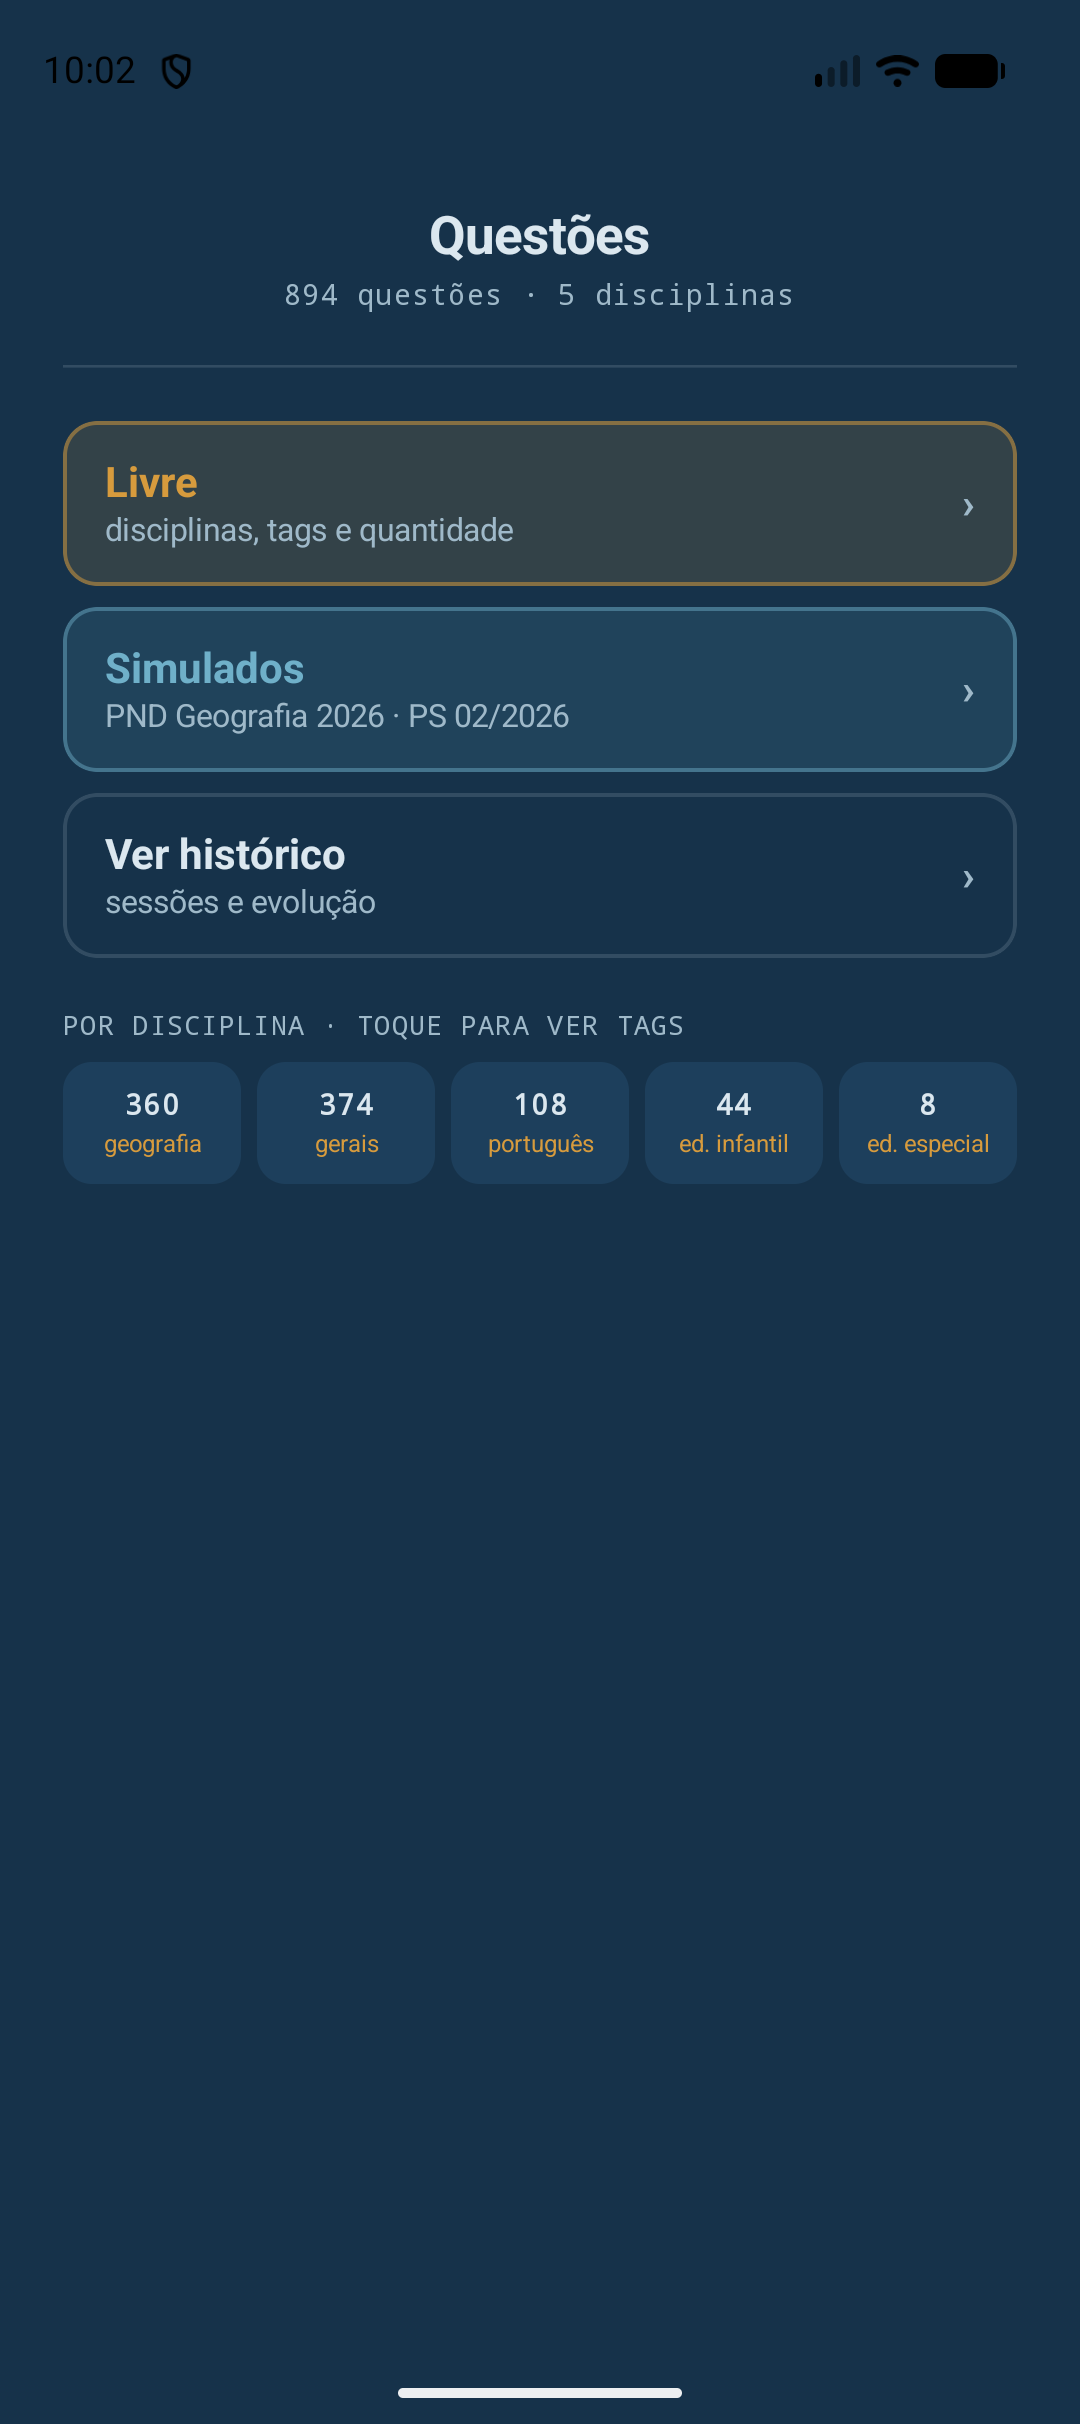
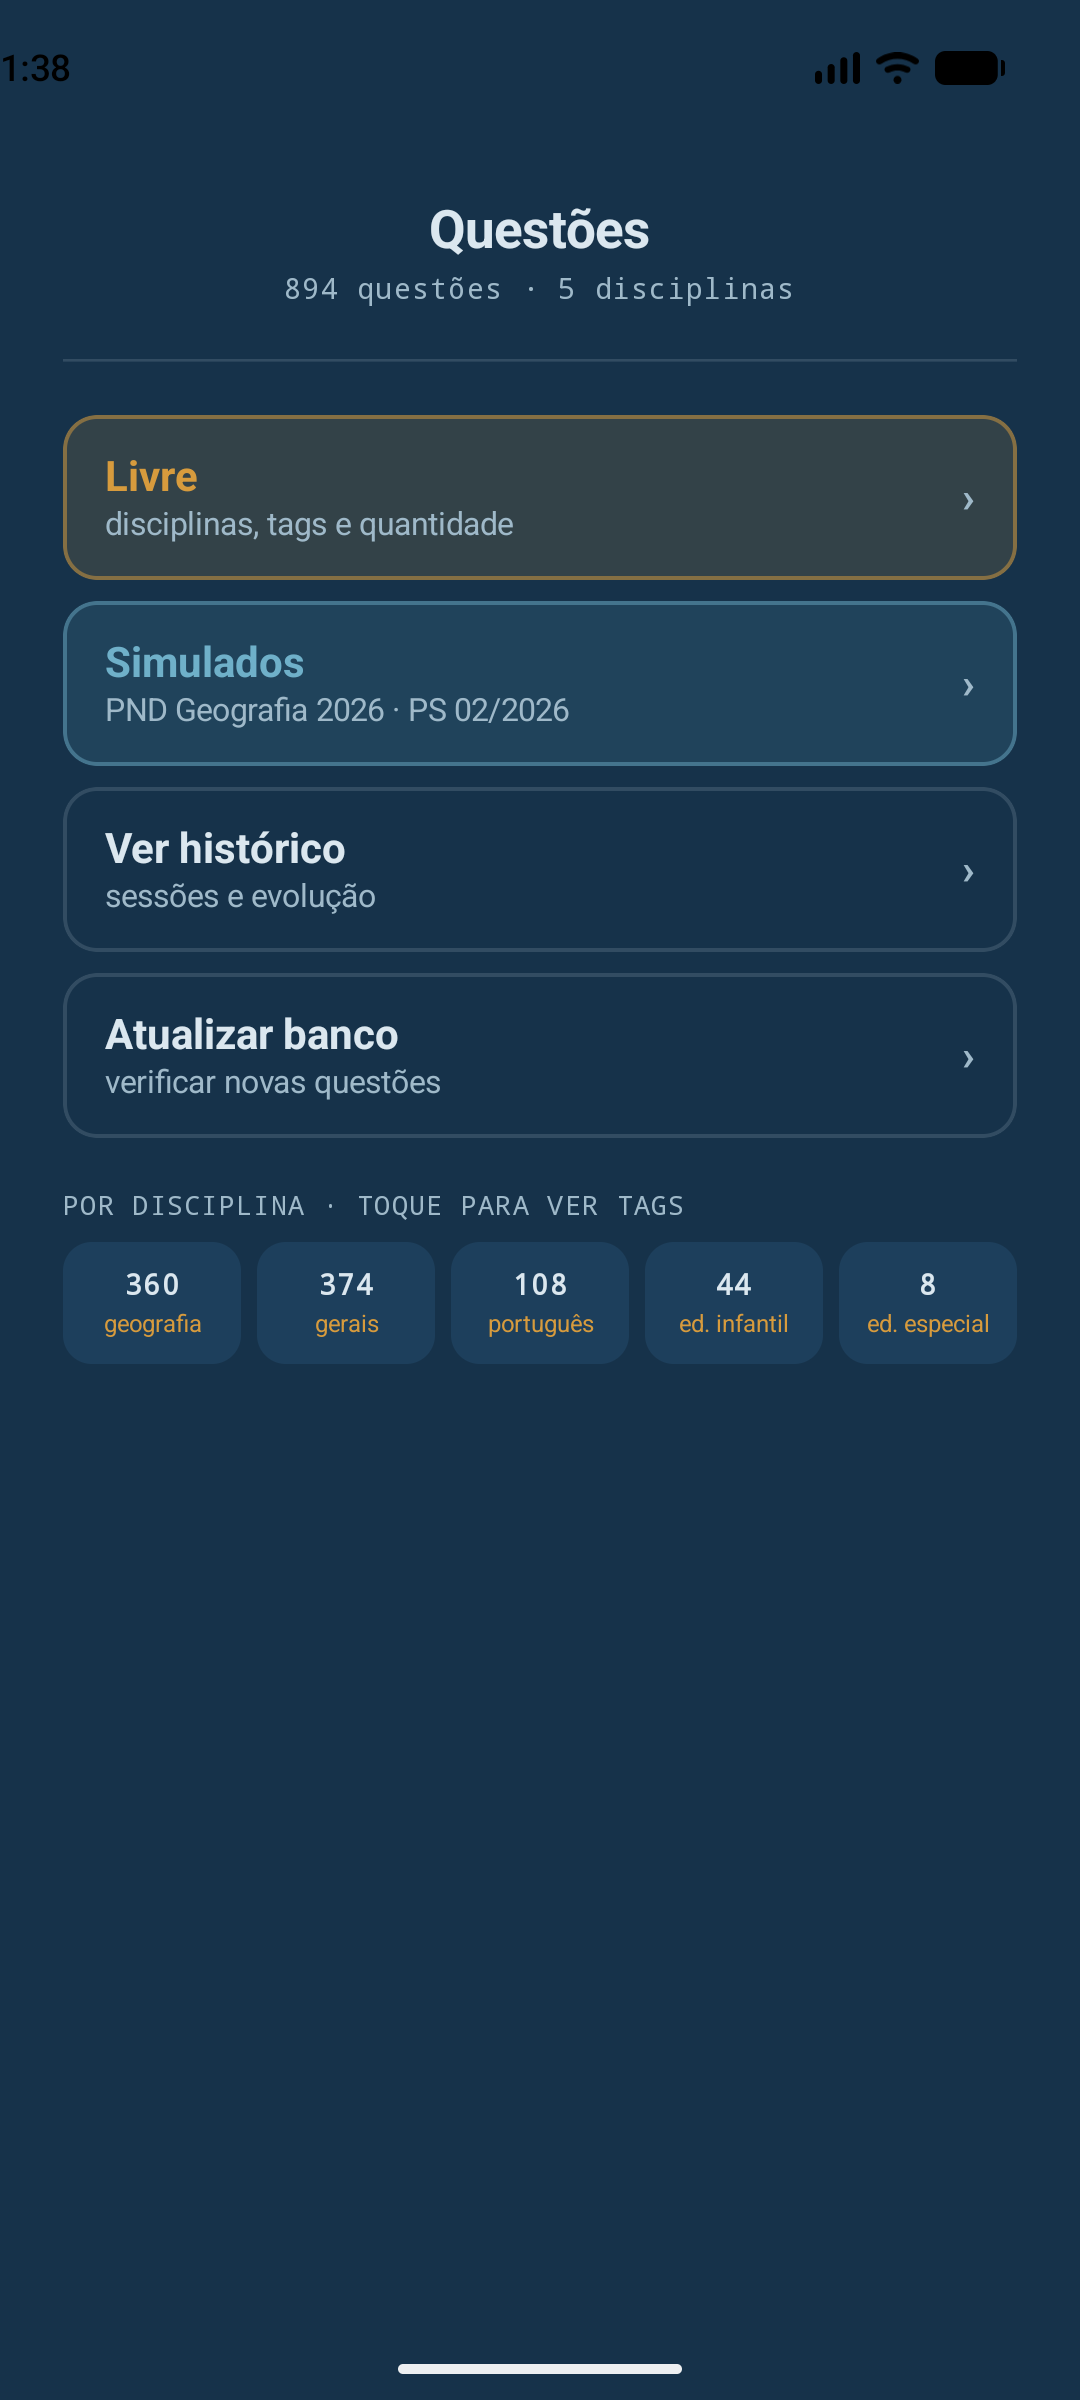
docs: confirma Atualizar banco testada e atualiza screenshot da Home
Testado de ponta a ponta em emulador (verificacao, download, aplicacao
e recuperacao de erro de rede) desde a ultima atualizacao do README.
Screenshot da Home trocado pelo capturado nesse teste, que já mostra
o 4o atalho "Atualizar banco" — o antigo era de antes da tela existir.

diff --git a/README.md b/README.md
@@ -6,7 +6,7 @@ O projeto nasceu de uma necessidade pessoal de estudo para concursos (PSS SEDUC-
 
 ## Status
 
-MVP funcional: as sete telas do fluxo (Home, Seleção · Livre, Quiz, Resultado, Histórico, Seleção de simulado e Atualizar banco) estão implementadas. A mais nova, Atualizar banco, compila e foi revisada com cuidado mas ainda não foi confirmada rodando de verdade num aparelho/emulador — ver [Roadmap](#roadmap) pro que ainda falta (testes automatizados, imagens reais, fontes do Google Fonts).
+MVP completo: as sete telas do fluxo (Home, Seleção · Livre, Quiz, Resultado, Histórico, Seleção de simulado e Atualizar banco) estão implementadas e testadas em emulador, incluindo a atualização remota de ponta a ponta (verificação, download, aplicação e recuperação de erro de rede) — ver [Roadmap](#roadmap) pro que ainda falta (testes automatizados, imagens reais, fontes do Google Fonts).
 
 ## Funcionalidades
 
@@ -71,8 +71,9 @@ net.oraphael.questoes
 │   └── repo         → fachadas de leitura/escrita usadas pela UI (QuestaoRepository, SessaoRepository)
 ├── domain           → MotorSessao (sorteio de questões do modo Livre e dos Simulados)
 ├── ui
+│   ├── components     → composables reutilizados entre telas (ex.: CarregandoCheck)
 │   ├── navigation    → NavHost e rotas type-safe
-│   ├── screens        → uma pasta por tela (home, selecaolivre, quiz, resultado, historico, selecaosimulado)
+│   ├── screens        → uma pasta por tela (home, selecaolivre, quiz, resultado, historico, selecaosimulado, atualizarbanco)
 │   └── theme          → cores, tipografia e tema Compose ("Carta anotada")
 ├── MainActivity.kt
 └── QuestoesApplication.kt
@@ -115,7 +116,7 @@ O código-fonte do banco de questões (os arquivos `.json`) vive em um repositó
 - [x] Camada de dados: schema Room, importador de JSON, importação automática no primeiro boot
 - [x] Telas do MVP em Compose (Home, Seleção · Livre, Quiz, Resultado, Histórico, Seleção de simulado, Atualizar banco)
 - [x] Simulados: PND Geografia 2026 e os 3 cargos do PS 02/2026 de Catanduva
-- [x] Atualização remota do banco de questões (falta confirmar rodando num aparelho/emulador de verdade)
+- [x] Atualização remota do banco de questões (verificação, download e aplicação confirmados em emulador, incluindo recuperação de erro de rede)
 - [ ] Pós-MVP: revisão por tag, gráfico de evolução, exportação/backup do histórico
 - [ ] Testes automatizados
 - [ ] Fontes reais do Google Fonts (hoje usa fontes do sistema como placeholder)
